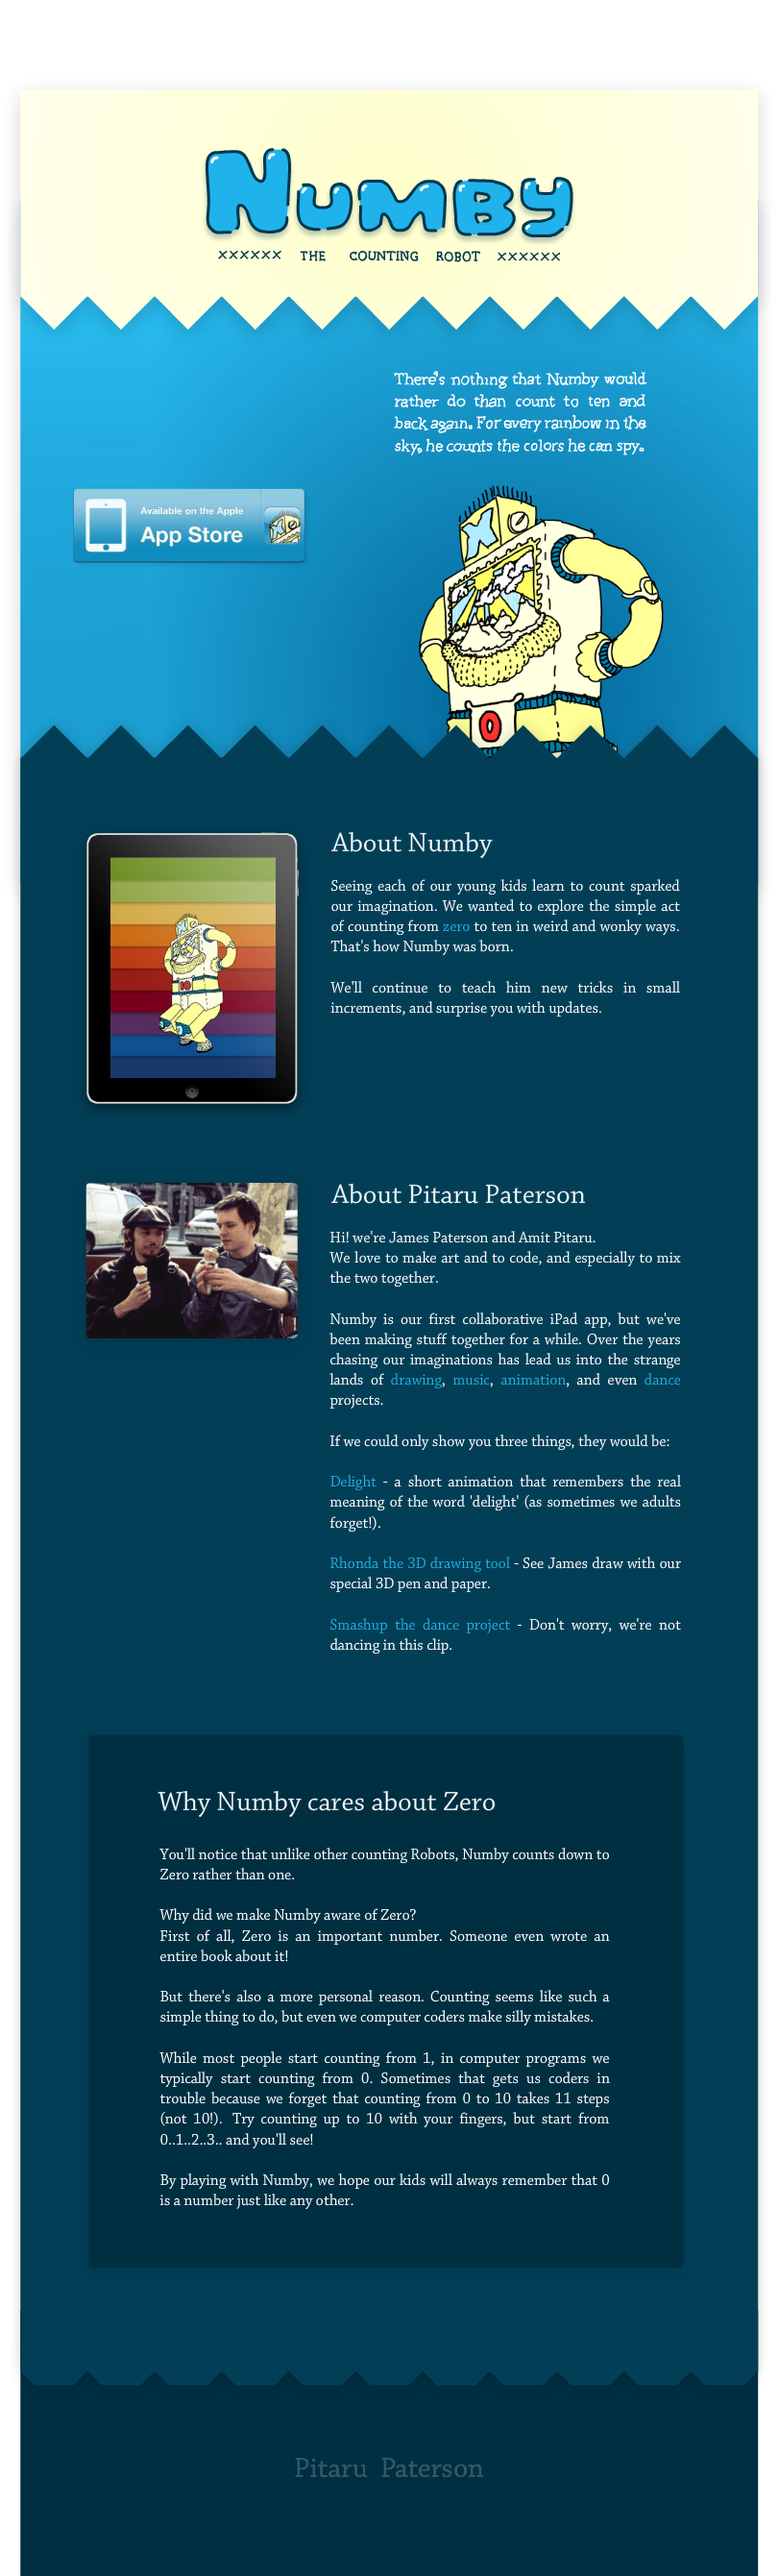
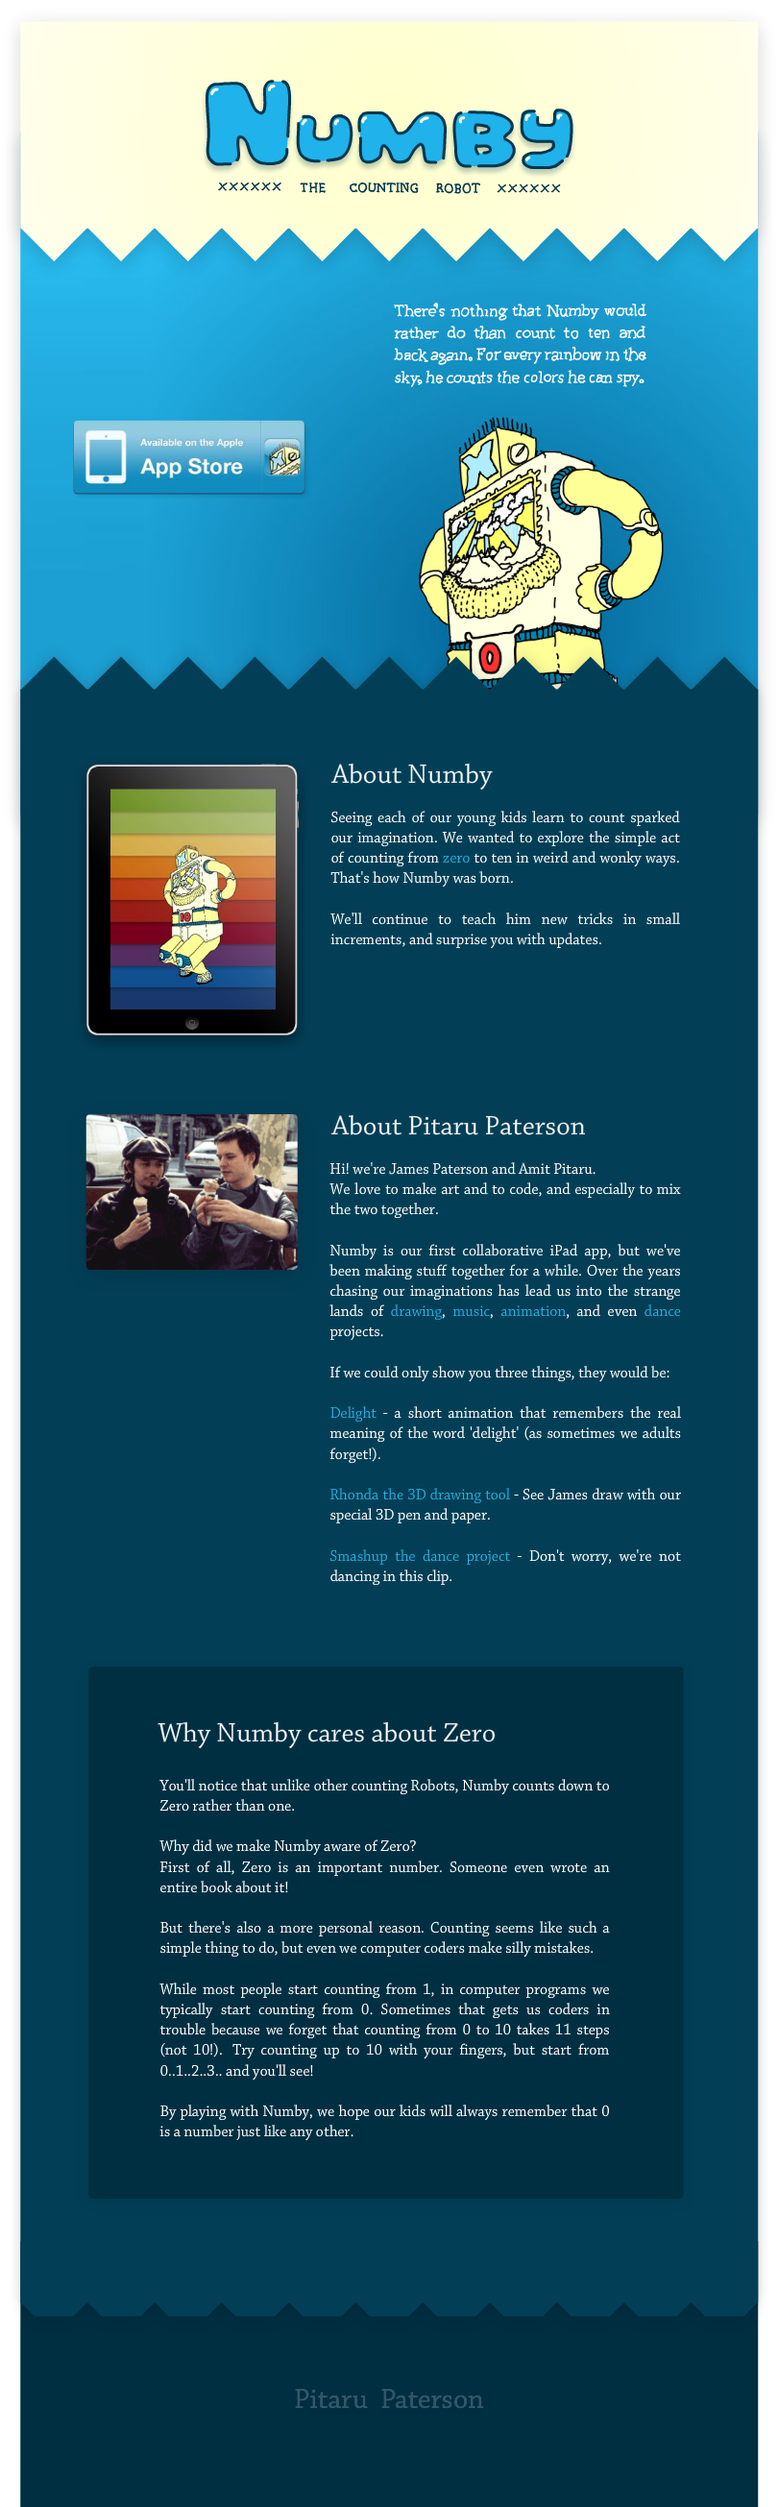
putting border back on

Changed region(s): [[0.0, 0.0, 0.9877, 0.6517], [0.1852, 0.6828, 0.8025, 0.869], [0.0926, 0.1552, 0.4012, 0.2172]]

diff --git a/index.html b/index.html
@@ -13,6 +13,6 @@
 </head>
 
 <body bgcolor="#FFFEEB" leftmargin="0" topmargin="0" marginwidth="0" marginheight="0">
-<div align="center"><img src="numby-site-mockup-bg-creme-tighter-INSANECTA.png" alt="" /></div>
+<div align="center"><img src="numby-site-mockup-bg-creme-tighter-INSANECTA_-1.png" alt="" /></div>
 </body>
 </html>
